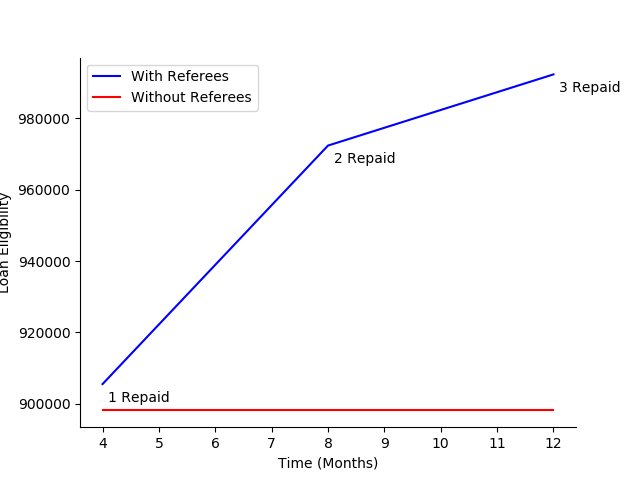
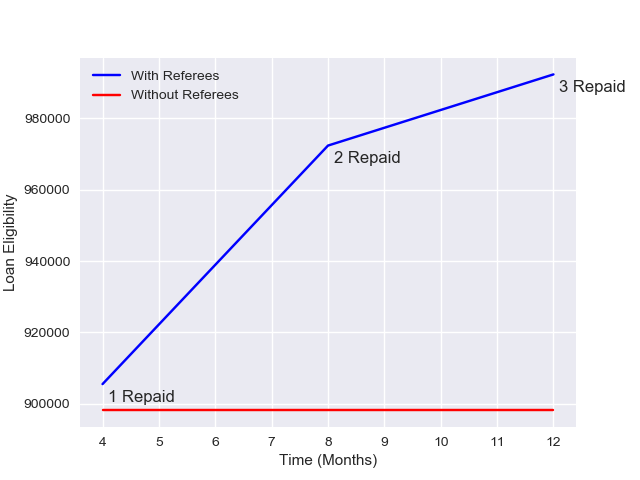
Changes in Code

diff --git a/Customer/Template/user_details.html b/Customer/Template/user_details.html
@@ -30,15 +30,15 @@
 
 <div class="container-fluid">
     <div class="row">
-        <div class="col-sm-3">
+        <div class="col-sm-3" style="margin-top: 20px">
             <ul class="form">
                 <li><a class="profile" href="javascript:showLoan();"><i class="icon-user"></i>Loan Adviser</a></li>
                 <li><a class="settings" href="javascript:showInvest();"><i class="icon-cog"></i>Investment Adviser</a></li>
-                <li><a class="logout" href="#"><i class="icon-signout"></i>Logout</a></li>
+                <li><a class="logout" href="http://127.0.0.1:8000/home/"><i class="icon-signout"></i>Logout</a></li>
             </ul>
         </div>
 
-        <div class="col-sm-6" id="division_loan">
+        <div class="col-sm-6" id="division_loan" style="margin-top: 20px">
 
             <center> <div class="profile-card">
         <div class="profile-cover">
@@ -92,11 +92,11 @@
 
         </div>
 
-        <!--<div class="col-lg-6" id="division_invest" style="visibility: hidden">
+        <div class="col-sm-6" id="division_invest" style="margin-top: 20px;visibility: hidden">
 
             <p>HELLO</p>
 
-        </div>-->
+        </div>
 
     </div>
 </div>

diff --git a/Customer/static/left_navigation.css b/Customer/static/left_navigation.css
@@ -14,6 +14,7 @@
 		padding:0;
 		list-style: none;
 		overflow:hidden;
+		margin-top: 50px;
 
 		-webkit-border-radius: 5px;
 		-moz-border-radius: 5px;

diff --git a/Customer/views.py b/Customer/views.py
@@ -11,8 +11,6 @@ from PythonScripts import regression
 import matplotlib.pyplot as plt
 import os
 
-# Create your views here.
-
 #predict/
 class CustomerList(APIView) :
 
@@ -76,7 +74,8 @@ class UserPanel(APIView):
         duration = [4, 8, 12]
 
         t = loader.get_template(os.path.dirname(os.path.dirname(__file__)) + '/Customer/Template/user_details.html')
-
+        import seaborn as sns
+        sns.set()
         plt.plot(duration, values, c='b' , label='With Referees')
         plt.plot(duration, [values_mmm]*len(values), c='r', label='Without Referees')
         ax = plt.gca()
